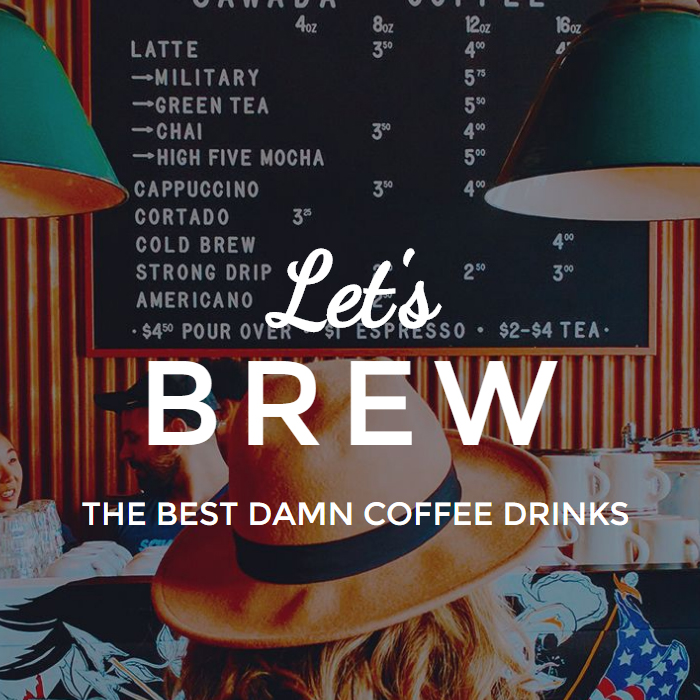
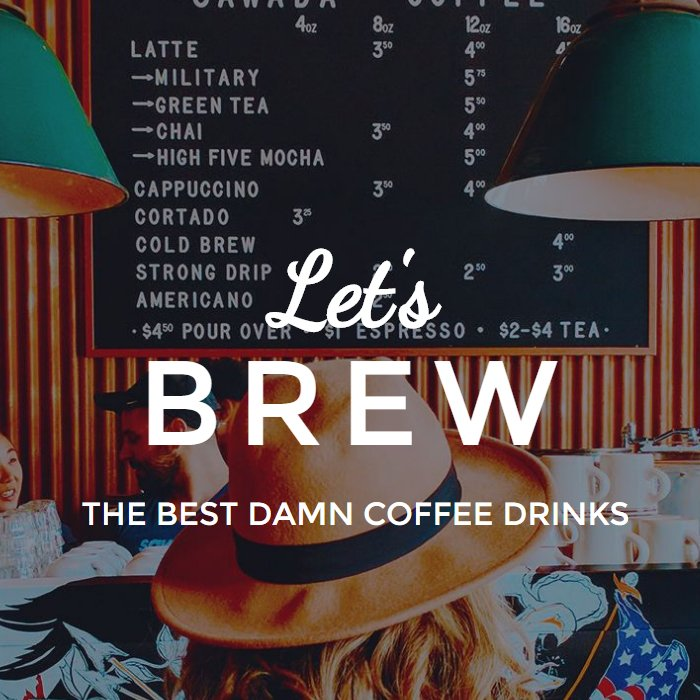
image size reductions

diff --git a/css/style.css b/css/style.css
@@ -70,10 +70,10 @@ body {
 }
 
 .header__container {
-    background: url(../images/bg2.jpg) center center no-repeat;
+    background: url(../images/bg.jpg) center center no-repeat;
     background-size: cover;
     padding: 7em 0;
-        border-top: solid 1px #cfd2d6;
+    border-top: solid 1px #cfd2d6;
     border-bottom: solid 1px #cfd2d6;
 }
 
